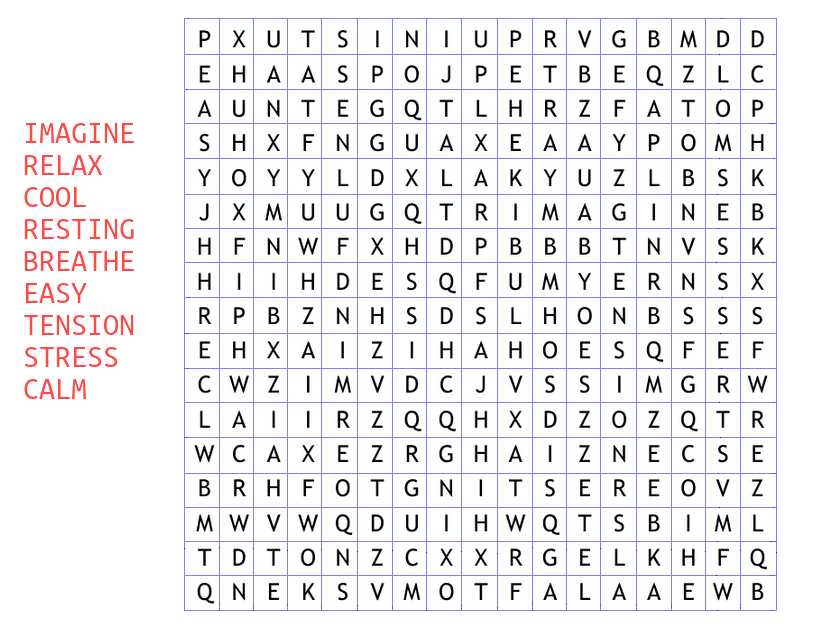
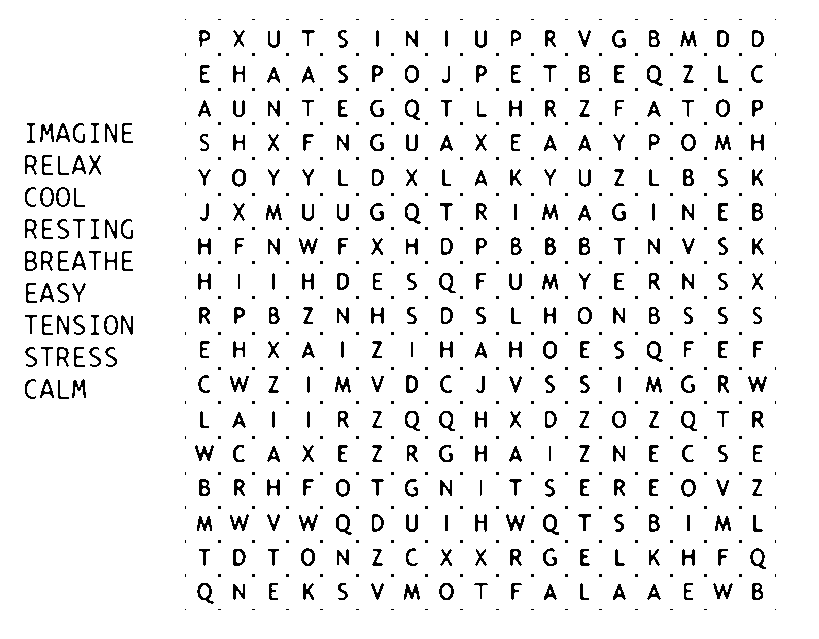
feat: added choice to save image

Changed region(s): [[0.2137, 0.0297, 0.9463, 0.9515], [0.0305, 0.1784, 0.1832, 0.6244]]

diff --git a/src/main.c b/src/main.c
@@ -120,7 +120,7 @@ void on_reset_clicked(GtkButton *button, gpointer user_data)
  *  - button   : the clicked GtkButton (unused).
  *  - user_data: pointer to struct AppData.
  */
-void on_save_clicked(GtkButton *button, gpointer user_data)
+void on_save_clicked(GtkButton *button, gpointer user_data, GtkWidget *widget)
 {
     (void)button;
     struct AppData *data = user_data;
@@ -130,19 +130,32 @@ void on_save_clicked(GtkButton *button, gpointer user_data)
         return;
     }
 
-    char filename[256];
-    snprintf(filename, sizeof(filename), "output%i.png", data->save_index);
-    data->save_index++;
-
-    GError *error = NULL;
-    if (!gdk_pixbuf_save(data->current, filename, "png", &error, NULL))
+    GtkWidget *dialog = gtk_file_chooser_dialog_new(
+		    "Choisir où sauvegarder",
+		    GTK_WINDOW(gtk_widget_get_toplevel(widget)),
+		    GTK_FILE_CHOOSER_ACTION_SAVE,
+		    "_Annuler", GTK_RESPONSE_CANCEL,
+		    "_Ouvrir", GTK_RESPONSE_ACCEPT,
+		    NULL);
+    if(gtk_dialog_run(GTK_DIALOG(dialog)) == GTK_RESPONSE_ACCEPT)
     {
-        g_printerr("Failed to save image: %s\n", error->message);
-        g_error_free(error);
-        return;
+	char *filename = gtk_file_chooser_get_filename(GTK_FILE_CHOOSER(dialog));
+	if(filename)
+	{
+            data->save_index++;
+            GError *error = NULL;
+            if (!gdk_pixbuf_save(data->current, filename, "png", &error, NULL))
+            {
+                g_printerr("Failed to save image: %s\n", error->message);
+                g_error_free(error);
+                return;
+            }
+
+            printf("Image saved as %s\n", filename);
+	}
     }
 
-    printf("Image saved as %s\n", filename);
+    gtk_widget_destroy(dialog);
 }
 
 /**
@@ -523,7 +536,7 @@ static void on_activate(GtkApplication *app, gpointer user_data)
 
    treatement_button = gtk_button_new_with_label("Traiter");
    reset_button = gtk_button_new_with_label("Réinitialiser");
-   save_button = gtk_button_new_with_label("Sauvegarde");
+   save_button = gtk_button_new_with_label("Sauvegarder");
    solver_button = gtk_button_new_with_label("Resoudre");
 
    GtkWidget *description = gtk_label_new("Image :");